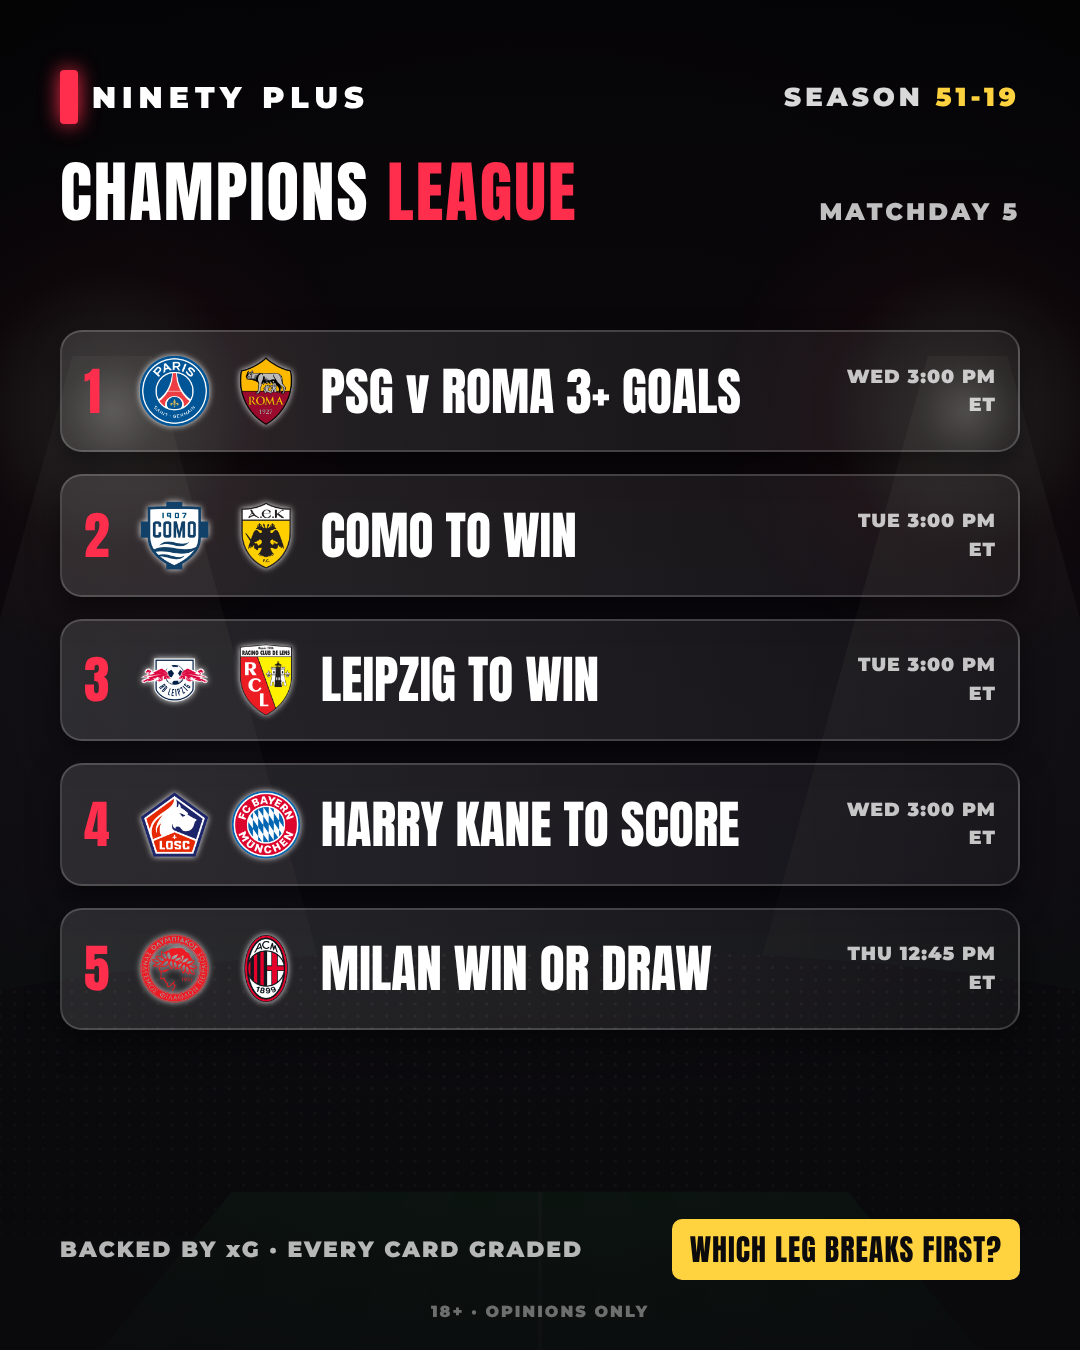
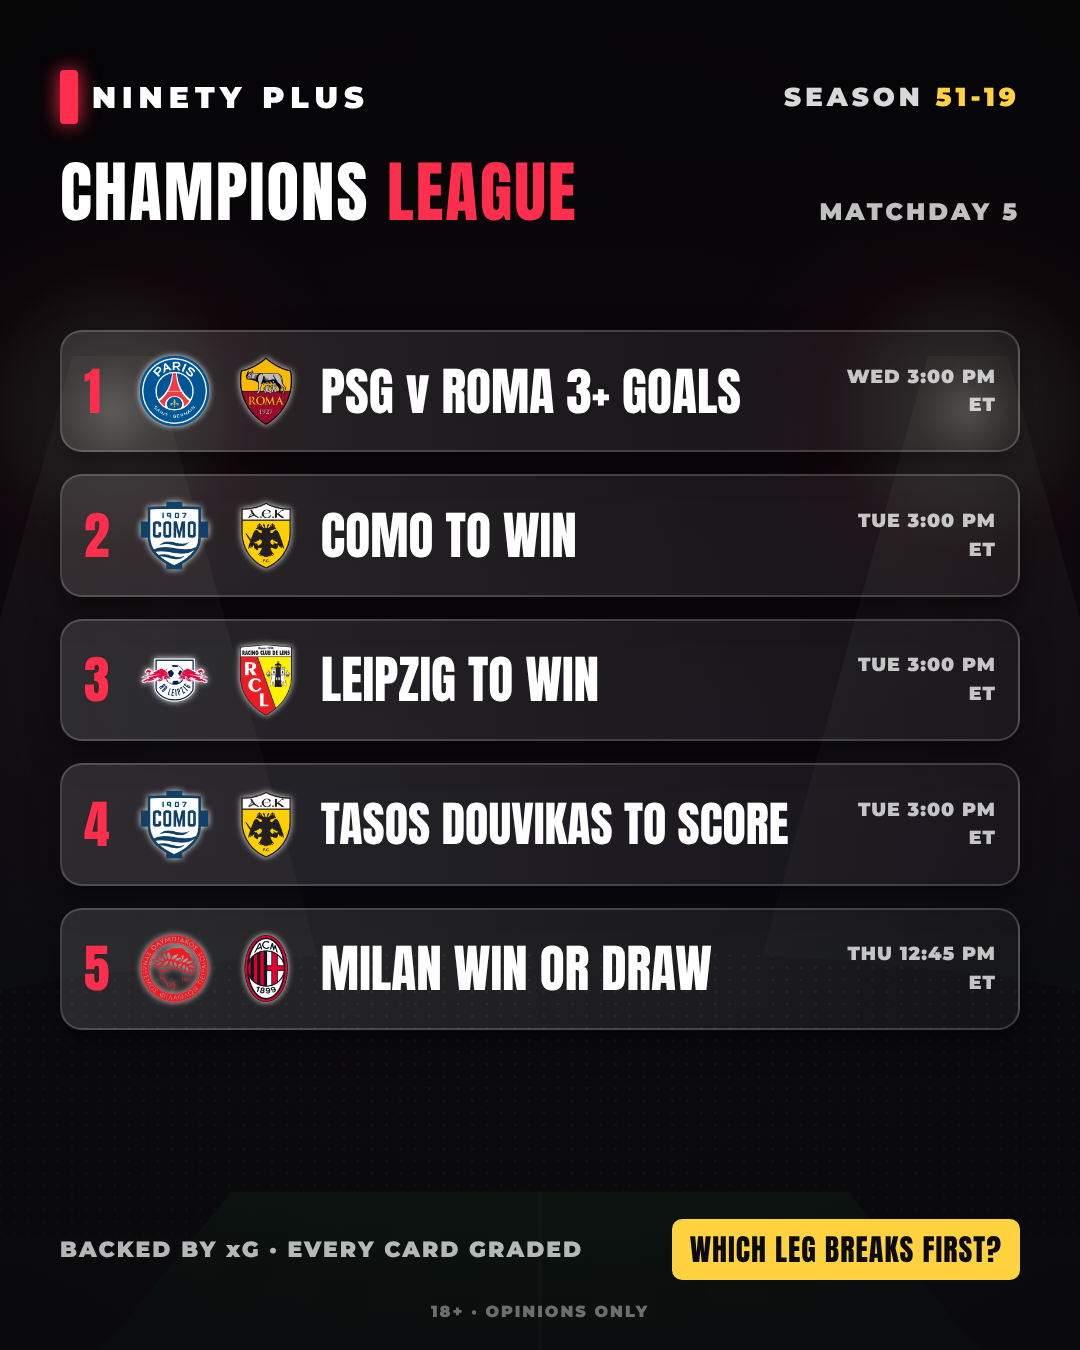
np-041: swap Kane for Douvikas to score (owner)
Claude-Session: https://claude.ai/code/session_01577joA6vjLNSCZnympgnAj

Changed region(s): [[0.1222, 0.56, 0.7333, 0.6533], [0.7944, 0.5911, 0.825, 0.6222]]

diff --git a/src/cards/np041.ts b/src/cards/np041.ts
@@ -3,17 +3,16 @@ import words from '../../video-projects/np-041/vo/words.json';
 
 // NP-041 Champions League card, matchday 5 (Tue 24 / Wed 25 Nov 2026) + Europa League Thursday bonus (owner's picks).
 // Sources: ESPN uefa.champions MD1-4 (video-projects/ucl-md5/table_ucl.txt, form_ucl.json): PSG 20-5, 3+ goals in 4 of 4;
-// Como 19-6; AEK away 0-0-2 (2-8); Lens 4-16 incl. 1-9 v Como at home; Kane 4 UCL goals, scored in 3 of 4 (espn-scorers);
-// Lille conceded 10 in 4. Milan Serie A away 3-3-0 through 17 Nov (wk-1121/form_ita.1.json: Torino W, Juve D, Lazio D,
+// Como 19-6; AEK away 0-0-2 (2-8); Lens 4-16 incl. 1-9 v Como at home; Douvikas (Como) 6 UCL goals, most in the competition, scored in 4 of 4 (espn-scorers uefa.champions to 23 Nov). Milan Serie A away 3-3-0 through 17 Nov (wk-1121/form_ita.1.json: Torino W, Juve D, Lazio D,
 // Sassuolo D, Udinese W, Genoa W). Kick-offs ESPN (Tue/Wed 20:00Z = 3:00 PM EST; Thu 17:45Z = 12:45 PM EST).
-// Note: Kane started Bayern 1-1 Koln (20 Nov) and was subbed off; re-check team news Wednesday.
+// Owner swapped Kane (subbed off v Koln 20 Nov) for Douvikas.
 export const spec: CardSpec = {
   dir: 'np-041',
   words,
   title: ['CHAMPIONS', 'LEAGUE'],
   tag: 'MATCHDAY 5',
   record: '51-19',
-  fan: { left: { crest: 'psg' }, right: { crest: 'bay' }, centers: ['com', 'mil'], glows: ['rgba(0,65,112,0.8)', 'rgba(220,5,45,0.75)'] },
+  fan: { left: { crest: 'psg' }, right: { crest: 'mil' }, centers: ['com', 'rbl'], glows: ['rgba(0,65,112,0.8)', 'rgba(251,9,11,0.75)'] },
   picks: [
     {
       from: 9, h: 'psg', a: 'rom', time: 'WED 3:00 PM', hero: { crest: 'psg', glow: 'rgba(0,65,112,0.85)' },
@@ -34,18 +33,21 @@ export const spec: CardSpec = {
       devices: [{ kind: 'big', word: 51, value: '16', label: 'GOALS LENS HAVE CONCEDED IN 4', color: 'red' }],
     },
     {
-      from: 63, h: 'lil', a: 'bay', time: 'WED 3:00 PM', hero: { crest: 'bay', glow: 'rgba(220,5,45,0.85)' },
-      claim: ['HARRY KANE', 'IN', 'EUROPE'], pill: 'KANE TO SCORE', pillWord: 80, row: 'HARRY KANE TO SCORE',
-      devices: [{ kind: 'big', word: 68, value: '3/4', label: 'CHAMPIONS LEAGUE GAMES KANE HAS SCORED IN', color: 'gold' }],
+      from: 63, h: 'com', a: 'aek', time: 'TUE 3:00 PM', hero: { crest: 'com', glow: 'rgba(0,90,170,0.85)' },
+      claim: ['DOUVIKAS', 'SCORES', 'EVERY GAME'], pill: 'DOUVIKAS TO SCORE', pillWord: 78, row: 'TASOS DOUVIKAS TO SCORE',
+      devices: [
+        { kind: 'form', word: 68, label: 'DOUVIKAS · SCORED IN EVERY GAME', results: ['✓', '✓', '✓', '✓'], top: 960 },
+        { kind: 'big', word: 72, value: '6', label: 'GOALS · TOP SCORER', color: 'gold' },
+      ],
     },
     {
-      from: 84, h: 'oly', a: 'mil', time: 'THU 12:45 PM', hero: { crest: 'mil', glow: 'rgba(251,9,11,0.8)' },
-      claim: ['THURSDAY', 'BONUS', 'EUROPA LEAGUE'], pill: 'MILAN WIN OR DRAW', pillWord: 98,
-      devices: [{ kind: 'form', word: 90, label: 'MILAN SERIE A AWAY GAMES', results: ['W', 'D', 'D', 'D', 'W', 'W'] }],
+      from: 81, h: 'oly', a: 'mil', time: 'THU 12:45 PM', hero: { crest: 'mil', glow: 'rgba(251,9,11,0.8)' },
+      claim: ['THURSDAY', 'BONUS', 'EUROPA LEAGUE'], pill: 'MILAN WIN OR DRAW', pillWord: 95,
+      devices: [{ kind: 'form', word: 87, label: 'MILAN SERIE A AWAY GAMES', results: ['W', 'D', 'D', 'D', 'W', 'W'] }],
     },
   ],
-  outroWord: 103,
-  commentWord: 107,
+  outroWord: 100,
+  commentWord: 104,
   tints: ['#0a2a5a', '#0a3a7a', '#5a0a1a', '#6a0a1a', '#5a0a0a', '#0a2a5a'],
-  emph: ['CITY.', 'CHELSEA.', 'TWENTY', 'NINETEEN', 'SIXTEEN', 'BONUS.', 'UNBEATEN', 'COMMENT'],
+  emph: ['CITY.', 'CHELSEA.', 'TWENTY', 'NINETEEN', 'SIXTEEN', 'NOBODY', 'UNBEATEN', 'COMMENT'],
 };
